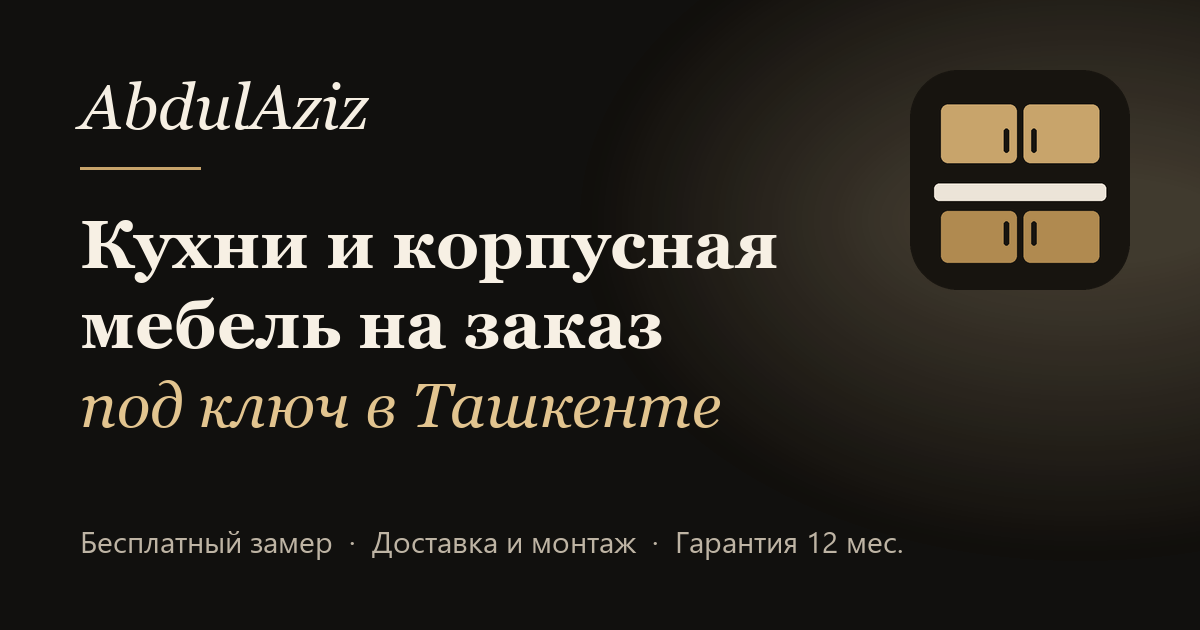
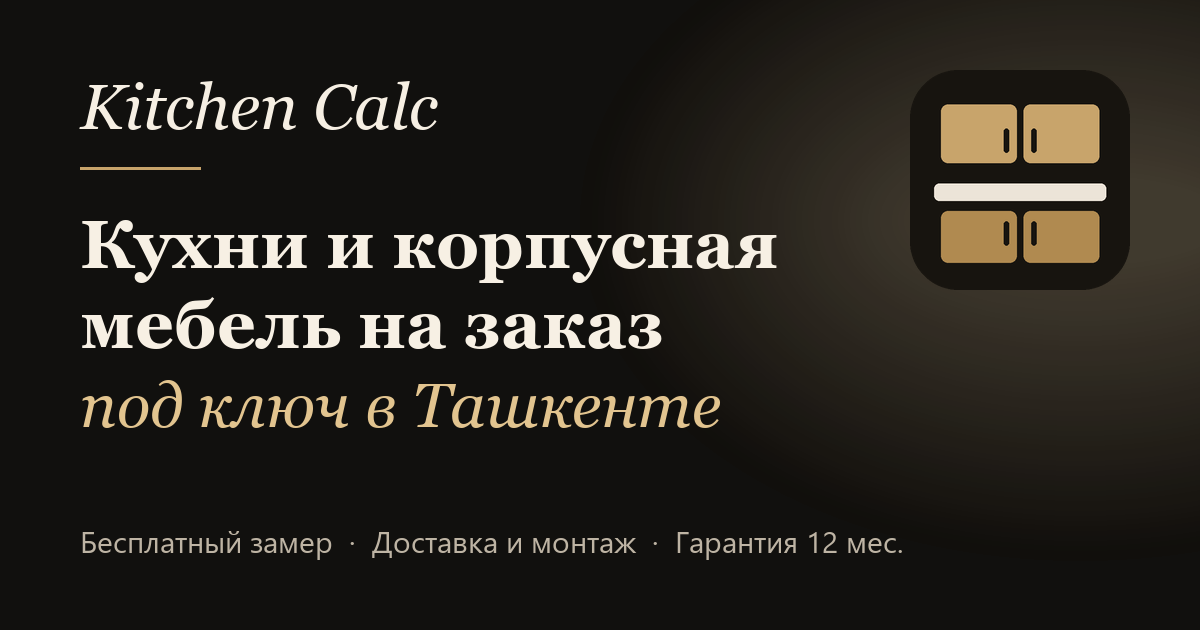
Rename brand to Kitchen Calc

Changed region(s): [[0.0617, 0.1206, 0.37, 0.2111]]

diff --git a/templates/index.html b/templates/index.html
@@ -3,7 +3,7 @@
 <head>
   <meta charset="UTF-8">
   <meta name="viewport" content="width=device-width, initial-scale=1.0">
-  <title>Кухни на заказ в Ташкенте — расчёт онлайн | АбдулАзиз</title>
+  <title>Кухни на заказ в Ташкенте — расчёт онлайн | Kitchen Calc</title>
   <meta name="description" content="Соберите кухню онлайн и узнайте цену за 2 минуты. Кухни на заказ в Ташкенте: бесплатный замер, договор, гарантия, доставка и монтаж.">
   <link rel="canonical" href="https://kitchen-calc.uz/calc">
   <link rel="icon" type="image/svg+xml" href="/static/home/favicon.svg">
@@ -16,7 +16,7 @@
   <meta property="og:image:height" content="630">
   <meta property="og:type" content="website">
   <meta property="og:url" content="https://kitchen-calc.uz/calc">
-  <meta property="og:title" content="Калькулятор кухни онлайн | АбдулАзиз">
+  <meta property="og:title" content="Калькулятор кухни онлайн | Kitchen Calc">
   <meta property="og:description" content="Соберите кухню онлайн и узнайте цену за 2 минуты. Бесплатный замер, договор, гарантия, доставка и монтаж в Ташкенте.">
   <link rel="preconnect" href="https://fonts.googleapis.com">
   <link rel="preconnect" href="https://fonts.gstatic.com" crossorigin>
@@ -1035,7 +1035,7 @@
   </main>
 
   <footer class="footer">
-    <div><span data-i18n="footer">АбдулАзиз · Кухни на заказ в Ташкенте</span></div>
+    <div><span data-i18n="footer">Kitchen Calc · Кухни на заказ в Ташкенте</span></div>
     <div><a id="footerPhone" href="tel:+998920934510">+998 92 093-45-10</a> · <a id="footerTg" href="https://t.me/Kitchencalc" target="_blank" rel="noopener">Telegram</a></div>
   </footer>
 
@@ -1315,7 +1315,7 @@
     /* ===================== ПЕРЕВОДЫ RU / UZ ===================== */
     const I18N = {
       ru: {
-        pageTitle: 'Кухни на заказ в Ташкенте — расчёт онлайн | АбдулАзиз',
+        pageTitle: 'Кухни на заказ в Ташкенте — расчёт онлайн | Kitchen Calc',
         brandTitle: 'Кухни на заказ', city: 'Ташкент', masterLine: 'Ваш мастер: {name}',
         heroTitle: 'Соберите кухню онлайн и узнайте цену за 2 минуты',
         heroLead: 'Кухня под ключ: замер, изготовление, доставка и монтаж. Выберите готовый вариант или настройте под свои размеры. Замер и консультация бесплатно.',
@@ -1357,7 +1357,7 @@
         how5t: 'Доставка и монтаж', how5d: 'Привозим, собираем, устанавливаем',
         howWarranty: 'Гарантия {m} месяцев по договору',
         howTurnkey: 'Под ключ — это замер, изготовление, доставка, монтаж и подсветка. Подключение техники, мойки, воды и электричества 220 В не входит в цену — подскажем проверенных мастеров.',
-        footer: '{name} · Кухни на заказ в Ташкенте',
+        footer: 'Kitchen Calc · Кухни на заказ в Ташкенте',
         catalogFacade: 'Выбор цвета фасадов', catalogBody: 'Выбор цвета корпуса',
         catalogDesc: 'Реальные декоры из каталога поставщика, по разделам. Нажмите на образец, чтобы выбрать.',
         catalogEmpty: 'В этой группе пока нет цветов.', markup: '+{p}% к фасадам',
@@ -1431,7 +1431,7 @@
         logisticsNote: 'В цену входят материалы, распил и кромка, ввоз и доставка материалов, доставка готовой кухни по Ташкенту и монтаж.'
       },
       uz: {
-        pageTitle: 'Toshkentda buyurtma asosida oshxona mebeli — onlayn hisob | AbdulAziz',
+        pageTitle: 'Toshkentda buyurtma asosida oshxona mebeli — onlayn hisob | Kitchen Calc',
         brandTitle: 'Buyurtma oshxonalar', city: 'Toshkent', masterLine: 'Ustangiz: {name}',
         heroTitle: 'Oshxonangizni onlayn yigʻing va narxini 2 daqiqada biling',
         heroLead: 'Oshxona kalit topshirilguncha: oʻlchov, tayyorlash, yetkazish va oʻrnatish. Tayyor variantni tanlang yoki oʻz oʻlchamlaringizga moslang. Oʻlchov va maslahat bepul.',
@@ -1473,7 +1473,7 @@
         how5t: 'Yetkazish va oʻrnatish', how5d: 'Olib kelamiz, yigʻamiz, oʻrnatamiz',
         howWarranty: 'Shartnoma boʻyicha {m} oy kafolat',
         howTurnkey: 'Kalit topshirish: oʻlchov, tayyorlash, yetkazish, oʻrnatish va yoritish. Texnika, kranlar, suv va 220 V elektr ulanishi narxga kirmaydi — ishonchli ustalarni tavsiya qilamiz.',
-        footer: '{name} · Toshkentda buyurtma oshxonalar',
+        footer: 'Kitchen Calc · Toshkentda buyurtma oshxonalar',
         catalogFacade: 'Fasad rangini tanlash', catalogBody: 'Korpus rangini tanlash',
         catalogDesc: 'Yetkazib beruvchi katalogidagi haqiqiy dekorlar, boʻlimlar boʻyicha. Tanlash uchun namunani bosing.',
         catalogEmpty: 'Bu guruhda hozircha rang yoʻq.', markup: 'fasadlarga +{p}%',

diff --git a/templates/home.html b/templates/home.html
@@ -15,7 +15,7 @@
   <link rel="icon" href="/favicon.ico" sizes="any">
   <link rel="apple-touch-icon" href="/static/home/apple-touch-icon.png">
   <meta property="og:type" content="website">
-  <meta property="og:site_name" content="AbdulAziz">
+  <meta property="og:site_name" content="Kitchen Calc">
   <meta property="og:url" content="__URL__">
   <meta property="og:title" content="__TITLE__">
   <meta property="og:description" content="__DESC__">
@@ -331,8 +331,8 @@
 
   <header class="hdr" id="hdr">
     <div class="wrap">
-      <div class="logo" id="logo" title="АбдулАзиз">
-        <span class="logo-mark">AbdulAziz</span>
+      <div class="logo" id="logo" title="Kitchen Calc">
+        <span class="logo-mark">Kitchen Calc</span>
         <span class="logo-sub"><b data-t="city">Ташкент</b><span data-t="tagline">кухни и мебель на заказ</span></span>
       </div>
       <nav class="nav" id="nav">
@@ -534,7 +534,7 @@
     <div class="wrap">
       <div class="foot">
         <div>
-          <div class="logo-mark" style="margin-bottom:12px">AbdulAziz</div>
+          <div class="logo-mark" style="margin-bottom:12px">Kitchen Calc</div>
           <p data-t="fAbout">Кухни и мебель на заказ в Ташкенте. Замер, производство, доставка и монтаж. Гарантия 12 месяцев по договору.</p>
         </div>
         <div>
@@ -559,7 +559,7 @@
         </div>
       </div>
       <div class="social">
-        <span>© <span id="year"></span> AbdulAziz · <span data-t="tagline">кухни и мебель на заказ</span></span>
+        <span>© <span id="year"></span> Kitchen Calc · <span data-t="tagline">кухни и мебель на заказ</span></span>
         <span><a class="js-tg" href="https://t.me/Kitchencalc" target="_blank" rel="noopener">Telegram</a> &nbsp;·&nbsp; <a class="js-phone" href="tel:+998920934510" data-t="call">Позвонить</a></span>
       </div>
     </div>

diff --git a/templates/raskroy.html b/templates/raskroy.html
@@ -7,7 +7,7 @@
   <link rel="icon" type="image/svg+xml" href="/static/home/favicon.svg">
   <link rel="icon" href="/favicon.ico" sizes="any">
   <link rel="apple-touch-icon" href="/static/home/apple-touch-icon.png">
-  <title>Раскрой листов — АбдулАзиз</title>
+  <title>Раскрой листов — Kitchen Calc</title>
   <link rel="preconnect" href="https://fonts.googleapis.com">
   <link rel="preconnect" href="https://fonts.gstatic.com" crossorigin>
   <link href="https://fonts.googleapis.com/css2?family=Manrope:wght@400;600;700;800&display=swap" rel="stylesheet">

diff --git a/seo.py b/seo.py
@@ -19,10 +19,10 @@ SEO = {
         "path": "/",
         "locale": "ru_RU",
         "city": "Ташкент",
-        "title": "Кухни и корпусная мебель на заказ в Ташкенте — под ключ | AbdulAziz",
+        "title": "Кухни и корпусная мебель на заказ в Ташкенте — под ключ | Kitchen Calc",
         "desc": "Кухни и корпусная мебель на заказ в Ташкенте под ключ: бесплатный замер, своё производство 3–30 рабочих дней, "
                 "доставка и монтаж, гарантия 12 месяцев. Рассчитайте стоимость онлайн за 2 минуты.",
-        "biz": "AbdulAziz — кухни и корпусная мебель на заказ",
+        "biz": "Kitchen Calc — кухни и корпусная мебель на заказ",
         "services": ["Кухни на заказ", "Спальни на заказ", "Гардеробные и шкафы на заказ", "Прихожие на заказ",
                      "Мебель для гостиной и ТВ-зоны на заказ", "Детская мебель на заказ", "Корпусная мебель под ключ"],
         "catalog": "Мебель на заказ",
@@ -59,10 +59,10 @@ SEO = {
         "path": "/uz",
         "locale": "uz_UZ",
         "city": "Toshkent",
-        "title": "Toshkentda buyurtma asosida oshxona va korpusli mebel — kalit topshirish | AbdulAziz",
+        "title": "Toshkentda buyurtma asosida oshxona va korpusli mebel — kalit topshirish | Kitchen Calc",
         "desc": "Toshkentda buyurtma asosida oshxona va korpusli mebel, kalit topshirish bilan: bepul oʻlchov, oʻz ishlab chiqarish "
                 "3–30 ish kuni, yetkazish va oʻrnatish, 12 oy kafolat. Narxni onlayn 2 daqiqada hisoblang.",
-        "biz": "AbdulAziz — buyurtma asosida oshxona va korpusli mebel",
+        "biz": "Kitchen Calc — buyurtma asosida oshxona va korpusli mebel",
         "services": ["Buyurtma oshxonalar", "Buyurtma yotoqxonalar", "Shkaf va garderob xonalari", "Prixojaya",
                      "Mehmonxona va TV zonasi mebeli", "Bolalar xonasi mebeli", "Kalit topshirish asosida korpusli mebel"],
         "catalog": "Buyurtma mebel",

diff --git a/tools/build_contract.py b/tools/build_contract.py
@@ -373,7 +373,7 @@ def build_docx(path):
     run.font.size = Pt(9)
 
     doc.core_properties.title = "Договор на изготовление, доставку и установку мебели (шаблон)"
-    doc.core_properties.author = "AbdulAziz"
+    doc.core_properties.author = "Kitchen Calc"
     doc.save(path)
 
 
@@ -447,7 +447,7 @@ def build_pdf(path):
         canvas.restoreState()
 
     pdf = SimpleDocTemplate(path, pagesize=A4, leftMargin=2 * cm, rightMargin=2 * cm, topMargin=1.8 * cm, bottomMargin=1.8 * cm,
-                            title="Договор на изготовление, доставку и установку мебели (шаблон)", author="AbdulAziz")
+                            title="Договор на изготовление, доставку и установку мебели (шаблон)", author="Kitchen Calc")
     pdf.build(story, onFirstPage=footer, onLaterPages=footer)
 
 
